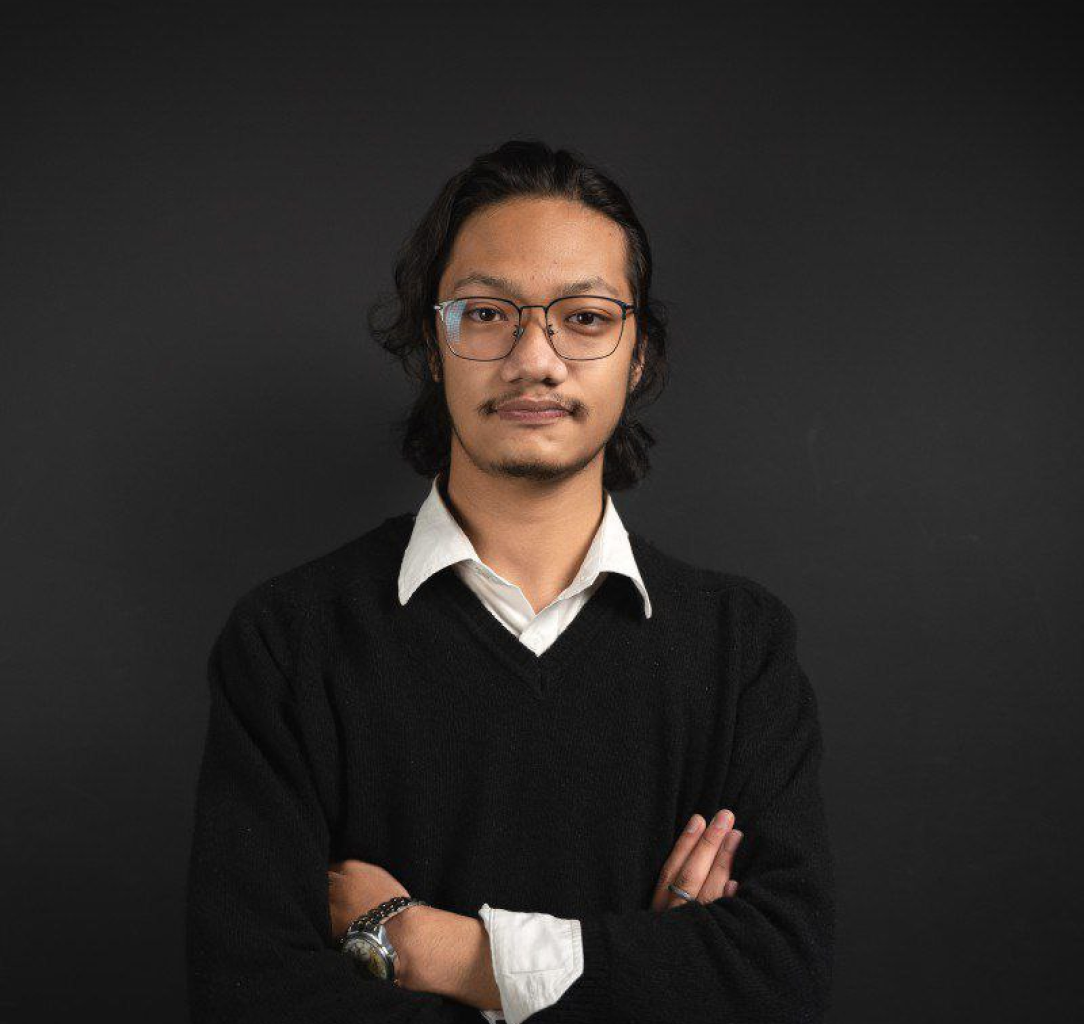
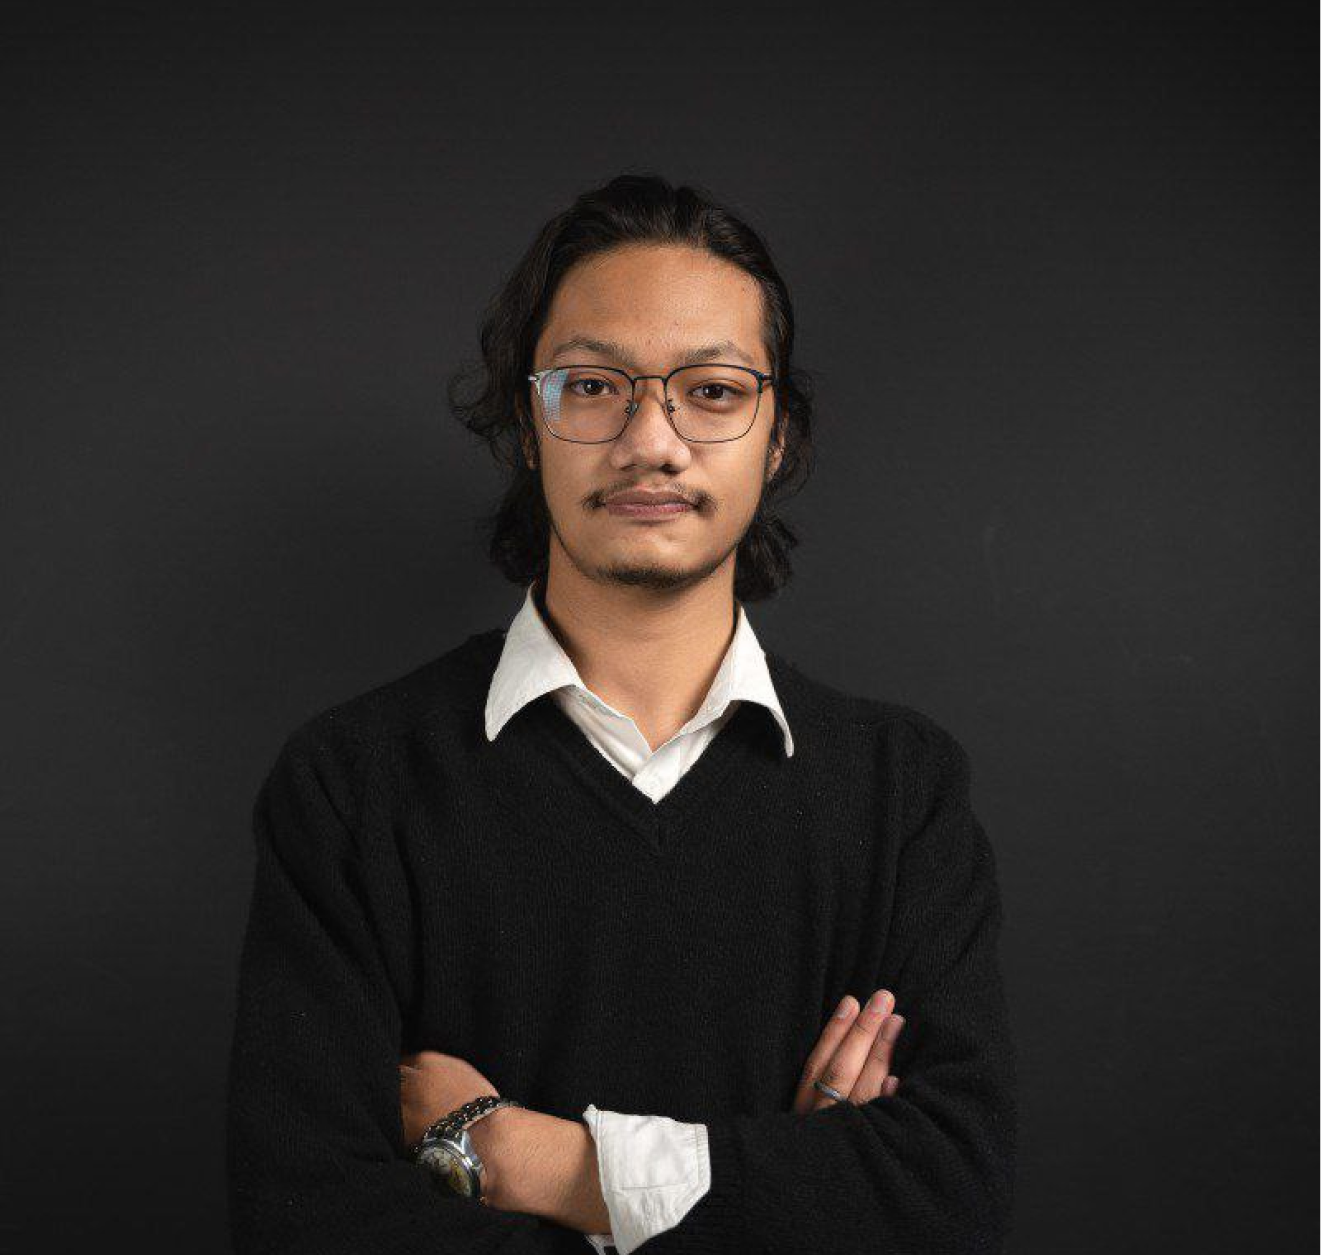
trying to align and justify center

diff --git a/portfolio/src/Components/UI/AboutMe.jsx b/portfolio/src/Components/UI/AboutMe.jsx
@@ -16,9 +16,9 @@ const AboutMe = () => {
 
   const renderImage = () => {
     return (
-      <div className="w-1/2 basis-1/3 mt-5 ml-3 sm:mt-0 sm:order-first">
+      <div className="w-1/2 basis-1/3 mt-5 ml-3 sm:mt-0 sm:w-1/2 sm:mx-auto sm:ml-auto">
         <img
-          className="flex items-center justify-center w-96 h-96" // Increase width and height as desired
+          className="flex items-center justify-center w-auto h-auto sm:w-auto sm:h-auto"
           src={pic}
           alt="pic"
         />
@@ -28,11 +28,11 @@ const AboutMe = () => {
 
   const renderContent = () => {
     return (
-      <div className="w-1/2 sm:order-last">
+      <div className="w-1/2 sm:w-1/2 sm:mx-auto">
         <h1
           data-aos="fade-up"
           data-aos-duration="1500"
-          className="lg-mx-auto text-smallTextColor font-[500] text-[16px] leading-7"
+          className="lg-mx-auto text-smallTextColor font-[500] text-[16px] leading-7 text-center"
         >
           Greetings, I'm Prameya Dhaubhadel, hailing from the picturesque land
           of Nepal. My heart beats for data, and I find boundless fascination in
